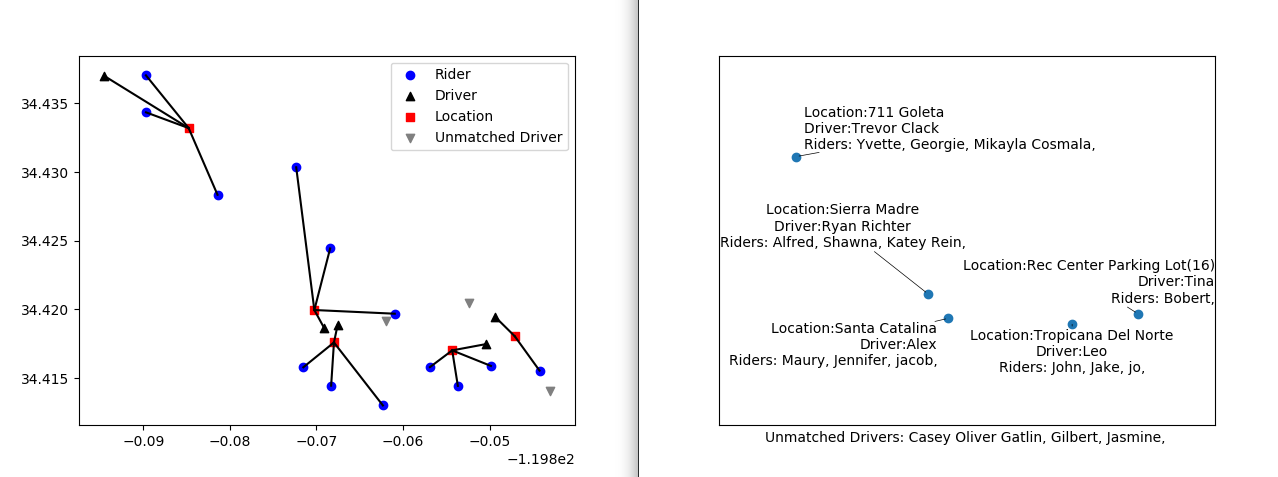
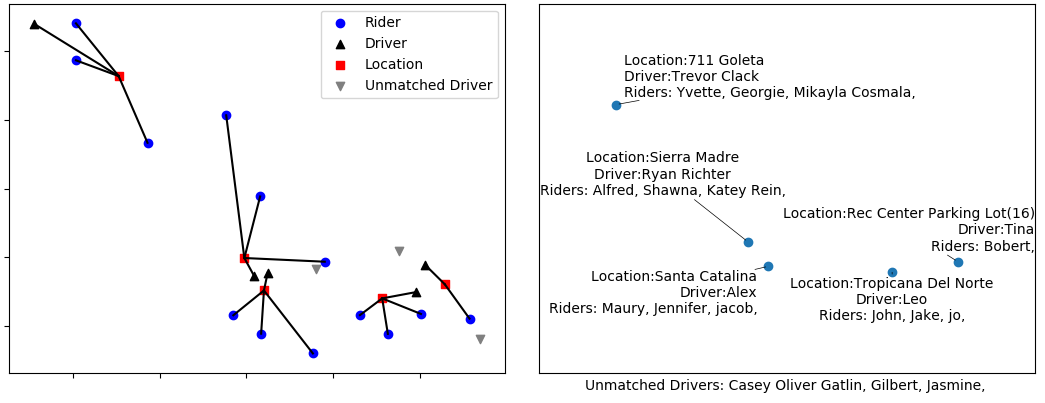
extended rideshare writeup, fixed spelling errors, enlarged images

diff --git a/_posts/2019-06-10-rideshare.md b/_posts/2019-06-10-rideshare.md
@@ -5,7 +5,7 @@ date:   2019-06-10 13:04:00 -0700
 categories: code
 ---
 
-The following is the explanation of a program I co-wrote with [Austin Taylor][AHTaylor]. The completed project and writeup can be found [here][Rideshare].
+The following is the explanation of a program I co-wrote with [Austin Taylor][AHTaylor]. The completed project and write-up can be found [here][Rideshare].
 
 Non-standard library needed (just the one this time):
 
@@ -14,23 +14,23 @@ Non-standard library needed (just the one this time):
 
 ## Inspiration
 
-In my Junior year at UCSB, I joined Music Connection, a club where we would get together and play on the weekends for local retirement centers and homeless shelters. Each week we would assign one person to make sure everyone had a ride (each week, a different subset of people from the group would go, so it wasn't the same people each time). It's a big job for that person to contact everyone on the gig list and find out where everyone lives, who is driving, who needs a ride and where to meet up. This is a means of automating that process.
+In my Junior year at UCSB, I joined Music Connection, a club that would get together on weekends to play music to local retirement centers and homeless shelters. The number of members was large enough and their school schedules varied such that each week, a different subset of people from the group would go, so it wasn't the same group each time. To facilitate the rideshare process, we would assign one person to contact everyone on that week's signup list to ensure everyone would have a ride. It can be quite the undertaking for that person to contact everyone on the gig list, find out their addresses, check who's driving, and establish a pickup point. What follows is a means of automating that process.
 
 ## Overview
 
-In general, each week, the members would fill out a simple google form with the following questions?
--Are you going to the gig?
+In general, each week, the members would fill out a simple google form with the following questions?"<br>
+-Are you going to the gig?<br>
 -Driver or rider?
 
 The club members would have to complete the survey through their gmail accounts and so by the end of the week we would get a downloadable csv file with the following information:
 
-|email|going?(y/n)|Driving?(y/n)|
+|email|going?(y/n)|Driving?(y/n)|<br>
 
-Previously, someone would need to make a file of potential pickup locations (the more the better) which would just be a csv file with the name of the place and the GPS coordinates. The members would have also needed to fill out another one-time survey specifying: their names, email addresses and GPS coordinates of where they live (admitedly the hardest thing to convince them to do that), and with the weekly email completed, the email, the program would check those who put 'Yes' down as going to the gig, then the code would crosscheck that against the masterlist to pull their names and locations. This is a great segway to the actual details.
+In preparation, someone would need to make a file of potential pickup locations (the more the better) which would just be a csv file with the name of the place and the GPS coordinates. The members would have also needed to fill out another one-time survey specifying: their names, email addresses and GPS coordinates of where they live &mdash; the Master List (admittedly people are reluctant to do that), and with the weekly email completed, the email, the program would check those who put 'Yes' down as going to the gig, then the code would crosscheck that against the masterlist to pull their names and locations. This is a great segue to the actual details.
 
 ## Code Details
 
-### Step 1 &emdash; creating the dictionaries
+### Step 1 &mdash; creating the dictionaries
 
 The members who indicated they were going are turned into dictionaries. The dictionary keys are "name", "x", "y", "email", where "x" and "y" represent the longitude and latitude. These are split into separate lists of dictionaries based on whether or not they indicated they would be able to drive. Similarly, all potential pickup locations would be made into dictionaries, but without emails (that would be silly).
 
@@ -44,11 +44,11 @@ for rider in riders:
 	name = rider['name']
 	vars()[name] = rider
 ```
-vars is an interesting function. If you just call `print(vars())` you'll get a a dictionary object whose keys are generally what you'd find as objects of a class. If you import any module and then act on it with vars(), you get all this information filled in for that module. What we are doing above is really just abusing this extra seldom used dictionary and adding keys (our rider names) to it. We couldn't have used a new blank dictionary though because the element wouldn't be callable. When it's in vars() it's callable at anypoint, so that's pretty useful!
+vars is an interesting function. If you just call `print(vars())` you'll get a dictionary object whose keys are generally what you'd find as objects of a class. If you import any module and then act on it with vars(), you get all this information filled in for that module. What we are doing above is really just abusing this extra seldom used dictionary and adding keys (our rider names) to it. We couldn't have used a new blank dictionary though because the element wouldn't be callable. When it's in vars() it's callable at any point, so that's pretty useful!
 
 ### Step 2 &mdash; Clustering the riders
 
-In general, we create clusters by just grouping the nearest points and then once the cluster is a cluster of 3 points, that group is removed (tha assumption is that the car will have one driver and 3 occupants. This assumption is not made in and can be adjusted in the demo version).
+In general, we create clusters by just grouping the nearest points and then once the cluster is a cluster of 3 points, that group is removed (the assumption is that the car will have one driver and 3 occupants. This assumption is not made in and can be adjusted in the demo version).
 
 
 Now, there are many ways to cluster points, but we went with a kind of agglomerative clustering which is intuitively based on grouping by shortest distance, then once the group size reaches 3, it's pulled out of the pool of unclustered points and this goes on until there are no more left. The question is: what in this case determines the distance between a point and a cluster.
@@ -56,26 +56,32 @@ Now, there are many ways to cluster points, but we went with a kind of agglomera
 We could have found the epicenter of the group and used that, but it's computationally expensive as the number of points grow.
 
 One suggestion is just to use the distance between the point and the nearest point of the cluster. This is known as "Single-linkage clustering" and tends to lead to long, stringy clusters. We went however with "Complete-linkage clustering" which determines a point's distance from a group as the distance between the point and the *furthest* point of the group. This leads to more globular-shaped clusters.
-![single-linkage vs. complete-linkage clustering]({{site.baseurl}}/assets/rideshare/single-complete-clustering.png)*one line of the code, 'maximum' is changed to 'minimum' in the code to change from complete-linkage clustering to single-linkage clustering... can you see where?*
+![single-linkage vs. complete-linkage clustering]({{site.baseurl}}/assets/rideshare/single-complete-clustering.png)*There is one line of the code where you can change 'maximum' to 'minimum' to change from using complete-linkage clustering to using single-linkage clustering... can you see where? Think about what's being maximized or minimized*
 
 ### Lessons learned
-Initially the clustering was very simple. We take our N points and turn that into an NxN adjaceancy matrix i.e. a matrix where the i,j entry represents the distance between points i and j. The cluster would just be the smallest element of the matrix. Naturally this is symmetric and the diagonal is filled with 0's which would of course always be the smallest distance, but we convert the diagonal into NaN (Not a number) to preclude the trivial case from getting us nowhere in our clustering. 
+Initially the clustering was very simple. We take our N points and turn that into an nxn adjacency matrix i.e. a matrix where the i,j entry represents the distance between points i and j. The cluster would just be the smallest element of the matrix. Naturally this is symmetric and the diagonal is filled with 0's which would of course always be the smallest distance, but we convert the diagonal into NaN (Not a number) to preclude the trivial case from getting us nowhere in our clustering. 
 
-As I said, initially this was simple, but it would lead to the undesireable effect of giving a group of 4 instead of 3. You see, the program would see two groups of 2. Since they are <= 3, they are not fully clustered and remain in the adjaceancy matrix for the next step. And if they are the closest, they will be grouped as a group of 4. So, with a max size of r riders, we can expect to see edge cases of up to 2(r-1) sized group
-As I said, initially this was simple, but it would lead to the undesireable effect of giving a group of 4 instead of 3. You see, the program would see two groups of 2. Since they are <= 3, they are not fully clustered and remain in the adjaceancy matrix for the next step. And if they are the closest, they will be grouped as a group of 4. So, with a max size of r riders, we can expect to see edge cases of up to 2(r-1) sized groups.
+As I said, initially this was simple, but it would lead to the undesirable effect of giving a group of 4 instead of 3. You see, the program would see two groups of 2. Since they are <= 3, they are not fully clustered and remain in the adjacency matrix for the next step. And if they are the closest, they will be grouped as a group of 4. So, with a max size of r riders, we can expect to see edge cases of up to 2(r-1) sized groups.
 
-The primary way we (and by we, I mean my very gifted project partner [Austin][AHTaylor]) figured a way around this was to used masked arrays, a numpy module which will hide the array entries from the unmasked portion. Very simply, if the sum of the elements in the groups being clustered exceeded the preset cluster size, a boolean would be attached to the groups hiding them from each other.
+The primary way we (and by we, I mean my very gifted project partner [Austin][AHTaylor]) figured a way around this was to used masked arrays, a Numpy module which will hide the array entries from the unmasked portion. Very simply, if the sum of the elements in the groups being clustered exceeded the preset cluster size, a boolean would be attached to the groups hiding them from each other.
 
 After the riders were clustered, their group epicenter is calculated and they are assigned to the nearest pickup location, usually given the coordinates of a coffee shop, bus stop, or similarly pre-selected open pickup spot. Nothing precludes multiple groups from being assigned to the same pickup location. Each driver is then assigned to the nearest of the assigned locations.
 
 ## Demo ##
-With preloaded data already loaded in github (some extra fake names added) Running `main.py` from a terminal with the files procured from the google surveys (going.csv, Locations.csv, Masterlist.csv) Here's the graphical output:
+With preloaded data already loaded in GitHub (some extra fake names added) Running `main.py` from a terminal with the files procured from the google surveys (going.csv, Locations.csv, Masterlist.csv) Here's the graphical output:
 
 ![Clustered Riders]({{site.baseurl}}/assets/rideshare/ClusteredRiders.png)
 
 A demo version is available for you to play around with. You'll need the following files in your directory: demo.py, DatGen.py, demosclustfunc.py
 
-First run DatGen.py and follow the input questions. This will create two files: SampleDatMasterList.csv and SampleDatLocations.csv. For simplicity's sake, this assumes all riders in the master list will be going. You can add as many riders, drivers and pickup locations as you want and change the max group size. It's quite fun!
+First run `DatGen.py` and follow the input questions. This will create two files: SampleDatMasterList.csv and SampleDatLocations.csv. For simplicity's sake, this assumes all riders in the master list will be going. You can add as many riders, drivers and pickup locations as you want and change the max group size. It's quite fun!
+
+## Future Improvements - errata ##
+[] Geography nerds may recognize that the earth's curvature will affect the distances, as the shortest distance between two points directly east and west is not a line of latitude, but a geodesic. However in this case, for clusters within a small city, taking this into account is unnecessarily complex, so I'm assuming Lat. and Long. are Euclidean.
+
+[] For rather large numbers, the plot generation can take some time, time-complexity is rather high with all the "for loops" and I may try and work in more steps to be performed in fewer loops.
+
+[] ...so this is embarrassing. If you call `DatGen.py` and pay close attention to the generated plot, then run `demo.py` to cluster, you will notice the x and y coordinates are flopped. I could just swap the plot axes, but I'm not actually sure why they're flopped. I've checked out the code several times but couldn't see where it occurred. So I'm not changing it until I actually understand why it's happening.
 
 [AHTaylor]: https://github.com/AHTaylor
 [Rideshare]: https://github.com/Tclack88/RideshareClustering/tree/master/RideShareClustering_Project
